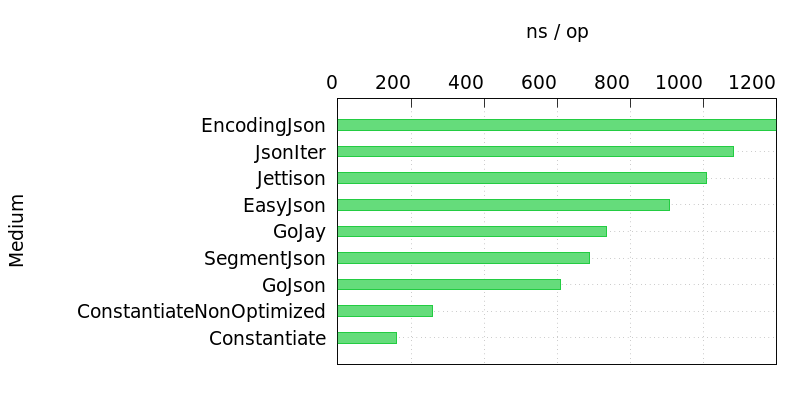
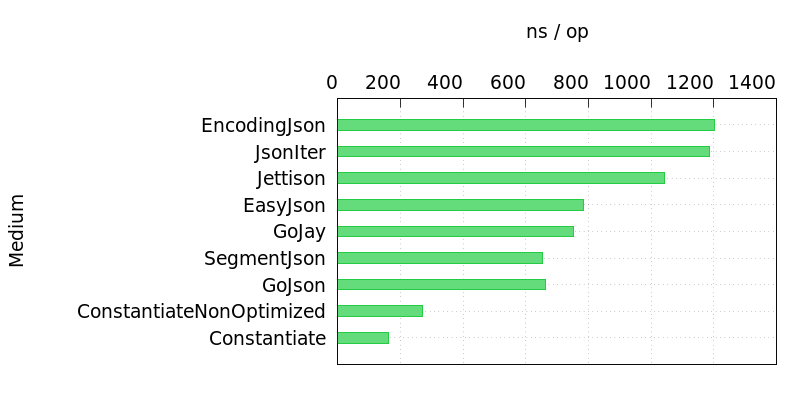
Clean: update benchmark results

diff --git a/README.md b/README.md
@@ -148,10 +148,10 @@ type M map[string]string
 |Constantiate|This one. Using Extended options.|
 
 ### SmallStruct
-![Small](https://user-images.githubusercontent.com/49056869/92948633-a04d9e80-f494-11ea-83c6-6360ea5c35f9.png)
+![Small](https://user-images.githubusercontent.com/49056869/95884083-a813a200-0db6-11eb-8be8-018d0f0e8a48.png)
 
 ### MediumStruct
-![Medium](https://user-images.githubusercontent.com/49056869/92948635-a2176200-f494-11ea-9a22-a84ef6ea86c8.png)
+![Medium](https://user-images.githubusercontent.com/49056869/95884087-a944cf00-0db6-11eb-96a0-0b89ddfb019b.png)
 
 ### LargeStruct
-![Large](https://user-images.githubusercontent.com/49056869/92948634-a17ecb80-f494-11ea-9559-a384bd509c00.png)
+![Large](https://user-images.githubusercontent.com/49056869/95884086-a944cf00-0db6-11eb-8c41-7558a683ec9f.png)
